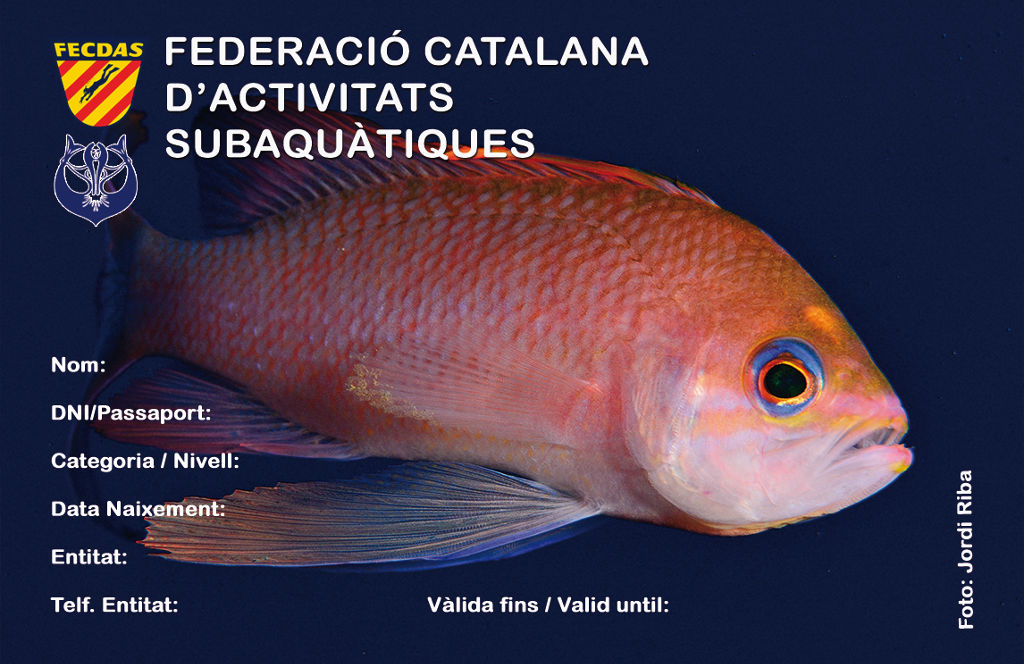
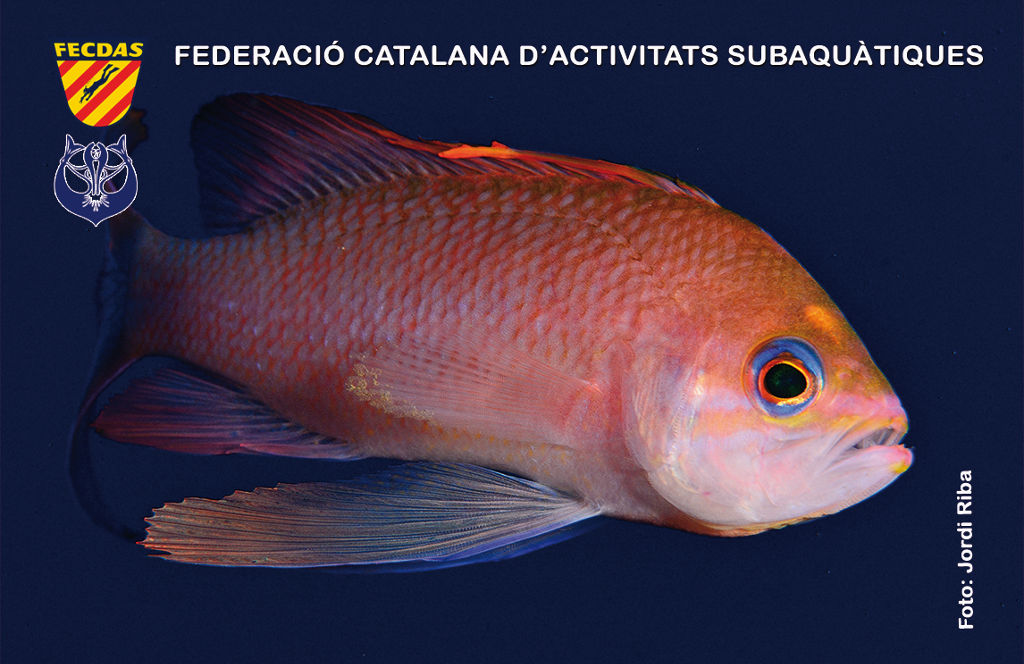
canvi imatge llicència 2018

diff --git a/src/FecdasBundle/Controller/BaseController.php b/src/FecdasBundle/Controller/BaseController.php
@@ -137,6 +137,17 @@ class BaseController extends Controller {
 	const TEMPLATE_ESCOLAR = 'ES';
 	const TEMPLATE_ESCOLAR_SUBMARINISME = 'CS';
 	
+	const IMATGE_ANVERS_GENERAL        = 'images/fonsgeneral_1024x664.jpg';
+	const IMATGE_REVERS_GENERAL        = 'images/federativa_revers_1024x664.jpg';
+	const IMATGE_ANVERS_ESCOLAR        = 'images/fonsanysescolar_1024x664.jpg';
+	const IMATGE_ANVERS_TECNOCAMPUS    = 'images/fonstecnocampus_910x600.jpg';
+	
+	const IMATGE_LOGO_FECDAS       = 'images/fecdaslogopdf.gif';
+	const IMATGE_LOGO_GENE         = 'images/logo-generalitat.jpg';
+	const IMATGE_LOGO_ESPORT       = 'images/esport-logo.jpg';
+	const IMATGE_LOGO_FECDAS_MAIL  = 'images/fecdaslogo-mail.png';
+	const IMATGE_BUTTON            = 'images/white_button.png';
+	
 	// Docs assegurança
 	const POLISSA_BUSSEIG = 'polissa_busseig_2017.pdf';
 	const POLISSA_TECNOCAMPUS = 'polissa_tecnocampus_2017-18.pdf';
@@ -1294,15 +1305,15 @@ class BaseController extends Controller {
 		if($showTemplate == true) {
 			/* LOGOS */		
 			// file, x, y, w, h, format, link alineacio, resize, dpi, palign, mask, mask, border, fit, hidden, fitpage, alt, altimg			
-			$pdf->Image('images/fecdaslogopdf.gif', $x_logos, $y_logos, 
+		    $pdf->Image(BaseController::IMATGE_LOGO_FECDAS, $x_logos, $y_logos, 
 						$w_fedelogo, 0 , 'gif', '', 'LT', true, 320, 
 						'', false, false, array(''),
 						'LT', false, false);
-			$pdf->Image('images/logo-generalitat.jpg', $x_logos+$w_fedelogo+2, $y_logos, 
+			$pdf->Image(BaseController::IMATGE_LOGO_GENE, $x_logos+$w_fedelogo+2, $y_logos, 
 						$w_genelogo, 0 , 'jpeg', '', 'T', true, 320, 
 						'', false, false, array(''),
 						'CT', false, false);
-			$pdf->Image('images/esport-logo.jpg', $x_logos+$w_fedelogo+4.5, $y_logos+$h_genelogo, 
+			$pdf->Image(BaseController::IMATGE_LOGO_ESPORT, $x_logos+$w_fedelogo+4.5, $y_logos+$h_genelogo, 
 						$w_esportlogo, 0 , 'jpeg', '', 'B', true, 320, 
 						'', false, false, array(''),
 						'CB', false, false);
@@ -1723,15 +1734,15 @@ class BaseController extends Controller {
 	   		$pdf->Rotate(90, $l_margin + $rx_corp , $y_corp + $ry_corp);
 			
 			// file, x, y, w, h, format, link,  alineacio, resize, dpi, palign, mask, mask, border, fit, hidden, fitpage, alt, altimg			
-			$pdf->Image('images/fecdaslogopdf.gif', $x_corp, $y_corp, 
+	   		$pdf->Image(BaseController::IMATGE_LOGO_FECDAS, $x_corp, $y_corp, 
 							$w_fedelogo, 0 , 'gif', '', 'LT', true, 320, 
 							'', false, false, array(''),
 							'LT', false, false);
-			$pdf->Image('images/logo-generalitat.jpg', $x_corp+$w_fedelogo+2, $y_corp, 
+			$pdf->Image(BaseController::IMATGE_LOGO_GENE, $x_corp+$w_fedelogo+2, $y_corp, 
 							$w_genelogo, 0 , 'jpeg', '', 'T', true, 320, 
 							'', false, false, array(''),
 							'CT', false, false);
-			$pdf->Image('images/esport-logo.jpg', $x_corp+$w_fedelogo+4.5, $y_corp+$h_genelogo, 
+			$pdf->Image(BaseController::IMATGE_LOGO_ESPORT, $x_corp+$w_fedelogo+4.5, $y_corp+$h_genelogo, 
 							$w_esportlogo, 0 , 'jpeg', '', 'B', true, 320, 
 							'', false, false, array(''),
 							'CB', false, false);
@@ -2032,9 +2043,9 @@ class BaseController extends Controller {
 		$yCat =	52-$offset;		
 		$yNai =	58-$offset;
 		if ($template == BaseController::TEMPLATE_GENERAL) $yCad = 71-$offset;		
-		else $yCad = (count($links) <= 3 ? 72-$offset: $yNai);
-		$yClu =	64-$offset;		
-		$yTlf =	64-$offset;	
+		else $yCad = (count($links) <= 3 ? 70-$offset: $yNai-0.2);
+		$yClu =	65-$offset;		
+		$yTlf =	$yClu-0.2;	
 
 		// Links docs
 		$x = $x_titols + 5;
@@ -2064,7 +2075,7 @@ class BaseController extends Controller {
 
 		$pdf->AddPage('L', $pageLayout);
 		
-		$srcImatge = ($template == BaseController::TEMPLATE_GENERAL?'images/fonsgeneral_1024x664.jpg':'images/fonsanysescolar_1024x664.jpg');
+		$srcImatge = ($template == BaseController::TEMPLATE_GENERAL?BaseController::IMATGE_ANVERS_GENERAL:BaseController::IMATGE_ANVERS_ESCOLAR);
 		
 		$pdf->Image($srcImatge, 0, 0, $width, $height , 'jpg', '', '', false, 320, 
 						'', false, false, 1, false, false, false);
@@ -2086,7 +2097,8 @@ class BaseController extends Controller {
 //		$pdf->SetFillColor(224,224,224);
 //		$pdf->SetAlpha(0.7);
 	
-		$pdf->setTextShadow(array('enabled' => true, 'depth_w' => 0.5, 'depth_h' => 0.5, 'color' => array(53,153,179), 'opacity' => 0.75, 'blend_mode' => 'Normal'));
+		if ($template == BaseController::TEMPLATE_GENERAL) $pdf->setTextShadow(array('enabled' => true, 'depth_w' => 0.2, 'depth_h' => 0.2, 'color' => array(39,65,140), 'opacity' => 0.75, 'blend_mode' => 'Normal'));
+		else $pdf->setTextShadow(array('enabled' => true, 'depth_w' => 0.5, 'depth_h' => 0.5, 'color' => array(53,153,179), 'opacity' => 0.75, 'blend_mode' => 'Normal'));
 		if ($template == BaseController::TEMPLATE_GENERAL) {
 			$pdf->SetFont('dejavusans', 'B', 14, '', true);
 		} else {
@@ -2100,13 +2112,21 @@ class BaseController extends Controller {
 		$pdf->SetFont('dejavusans', 'B', 11);
 		$pdf->SetTextColor(255, 255, 255);
 
-		$pdf->setTextShadow(array('enabled' => true, 'depth_w' => 0.3, 'depth_h' => 0.3, 'color' => array(53,153,179), 'opacity' => 0.6, 'blend_mode' => 'Normal'));		
+		if ($template == BaseController::TEMPLATE_GENERAL) $pdf->setTextShadow(array('enabled' => true, 'depth_w' => 0.2, 'depth_h' => 0.2, 'color' => array(39,65,140), 'opacity' => 0.6, 'blend_mode' => 'Normal'));		
+		else $pdf->setTextShadow(array('enabled' => true, 'depth_w' => 0.3, 'depth_h' => 0.3, 'color' => array(53,153,179), 'opacity' => 0.6, 'blend_mode' => 'Normal'));
 		
 		$pdf->writeHTMLCell(0, 0, $x_titols, $yNom, '<span style="font-size: small;">Nom: </span>'.$persona->getNomCognoms(), 0, 0, false, true, 'L', true);
 		$pdf->writeHTMLCell(0, 0, $x_titols, $yDni, '<span style="font-size: small;">DNI/Passaport: </span>'.$persona->getDni(), 0, 0, false, true, 'L', true);
 		$pdf->writeHTMLCell(0, 0, $x_titols, $yCat, '<span style="font-size: small;">Categoria/Nivell: </span>'.$llicencia->getCategoria()->getCategoria(), 0, 0, false, true, 'L', true);
 		$pdf->writeHTMLCell(0, 0, $x_titols, $yNai, '<span style="font-size: small;">Data Naixement: </span>'.$persona->getDatanaixement()->format('d/m/Y'), 0, 0, false, true, 'L', true);
-		$pdf->writeHTMLCell(0, 0, $x_titols, $yClu, '<span style="font-size: small;">Entitat: </span>'.$club->getNom(), 0, 0, false, true, 'L', true);
+		$pdf->writeHTMLCell(0, 0, $x_titols, $yClu, '<span style="font-size: small;">Entitat: </span>', 0, 0, false, true, 'L', true);
+		
+		/* Ajustar nom del club */
+		$pdf->SetY($yClu-0.5);
+		$pdf->SetX(PDF_MARGIN_LEFT+4);
+		$pdf->Cell(78, 0, $club->getNom(), 0, 0, 'L', false, '', 1);
+		
+		if ($template == BaseController::TEMPLATE_GENERAL) $pdf->SetRightMargin(PDF_MARGIN_RIGHT);
 		$pdf->writeHTMLCell(0, 0, $x_titols, $yCad, '<span style="font-size: small;">Vàlida fins/Valid until: </span>'. $datacaduca->format('d/m/Y'), 0, 0, false, true, 'R', true);
 		
 		$pdf->SetFont('dejavusans', 'B', 10);
@@ -2122,7 +2142,9 @@ class BaseController extends Controller {
 		$margins = $pdf->getMargins();
 		$width = $pdf->getPageWidth() - $margins['left'] - $margins['right'];
 		
-		$pdf->SetTextColor(53,153,179);
+		
+		if ($template == BaseController::TEMPLATE_GENERAL) $pdf->SetTextColor(39,65,140);
+		else  $pdf->SetTextColor(53,153,179);
 		$pdf->SetFont('helvetica', 'B', 10, '', true);
 
 		$margins = $pdf->getMargins();
@@ -2131,7 +2153,7 @@ class BaseController extends Controller {
 
 
 		for ($i=0; $i < count($links); $i++) {
-			$pdf->Image('images/white_button.png', $x, $y, $wLink, $hLink , 'png', $links[$i]['link'], 
+		    $pdf->Image(BaseController::IMATGE_BUTTON, $x, $y, $wLink, $hLink , 'png', $links[$i]['link'], 
 					'', true, 320, '', false, false, 0, false, false, false);
 			//$pdf->setPageMark(); 
 			$pdf->MultiCell($wLink, $hLink, $links[$i]['text'], 0, 'C', 0, 0, $x, $y, true, 0, false, true, $hLink, 'M', true);
@@ -2226,7 +2248,7 @@ class BaseController extends Controller {
 
 		$pdf->AddPage('L', $pageLayout);
 		
-		$pdf->Image('images/fonstecnocampus_910x600.jpg', 0, 0, 
+		$pdf->Image(BaseController::IMATGE_ANVERS_TECNOCAMPUS, 0, 0, 
 						$width, $height , 'jpg', '', '', false, 320, 
 						'', false, false, 1, false, false, false);
 		
@@ -2249,6 +2271,7 @@ class BaseController extends Controller {
 
 		$pdf->writeHTMLCell(0, 0, $x_titols, $yNom, '<span style="font-size: small;">Nom: </span>'.$persona->getNomCognoms(), 0, 0, false, true, 'L', true);
 		$pdf->writeHTMLCell(0, 0, $x_titols, $yDni, '<span style="font-size: small;">DNI/Passaport: </span>'.$persona->getDni(), 0, 0, false, true, 'L', true);
+		
 		$pdf->writeHTMLCell(0, 0, $x_titols, $yCad, '<span style="font-size: small;">Vàlida fins/Valid until: </span>'. $datacaduca->format('d/m/Y'), 0, 0, false, true, 'R', true);
 		
 		//$pdf->setFontSpacing(0.5);
@@ -2263,7 +2286,7 @@ class BaseController extends Controller {
 
 
 		for ($i=0; $i < count($links); $i++) {
-			$pdf->Image('images/white_button.png', $x, $y, $wLink, $hLink , 'png', $links[$i]['link'], 
+		    $pdf->Image(BaseController::IMATGE_BUTTON, $x, $y, $wLink, $hLink , 'png', $links[$i]['link'], 
 					'', true, 320, '', false, false, 0, false, false, false);
 			//$pdf->setPageMark(); 
 			$pdf->MultiCell($wLink, $hLink, $links[$i]['text'], 0, 'C', 0, 0, $x, $y, true, 0, false, true, $hLink, 'M', true);
@@ -3870,7 +3893,7 @@ class BaseController extends Controller {
 			$innerbody .= "<p>Atentament<br/>";
 			$innerbody .= "FECDAS, ".$this->getCurrentDate()->format("d/m/Y")."</p><br/>";
 		}
-		$logosrc = $message->embed(\Swift_Image::fromPath('images/fecdaslogo-mail.png'));
+		$logosrc = $message->embed(\Swift_Image::fromPath(BaseController::IMATGE_LOGO_FECDAS_MAIL));
 		
 		/*$footer .= "<div style='float:left;padding-right:20px'><img src=".$logosrc." alt='FECDAS' /></div>";
 		$footer .= "<div style='float:left;text-align:right'>";

diff --git a/src/FecdasBundle/Controller/PDFController.php b/src/FecdasBundle/Controller/PDFController.php
@@ -582,18 +582,12 @@ class PDFController extends BaseController {
 				// Border dashed
 				$pdf->SetLineStyle(array('width' => 0.3, 'cap' => 'butt', 'join' => 'miter', 'dash' => 4, 'color' => array(0, 0, 0)));
 				//$pdf->writeHTMLCell($width + 4, 2*($height + 2), $x - 2, $y - 2, '', 1, 0, 0, true, 'L', true);
-
 				
-				
-				
-				/*$pdf->Image('images/federativa-cara.jpg', $x, $y, 
-						$width, $height , 'jpg', '', '', false, 320, 
-						'', false, false, 1, false, false, false);*/
-				$pdf->Image('images/fonsgeneral_1024x664.jpg', $x, $y, 
+				$pdf->Image(BaseController::IMATGE_ANVERS_GENERAL, $x, $y, 
 						$width, $height , 'jpg', '', '', false, 320, 
 						'', false, false, 1, false, false, false);
 				
-				$pdf->Image('images/federativa_revers_1024x664.jpg', $x, $y + $height,
+						$pdf->Image(BaseController::IMATGE_REVERS_GENERAL, $x, $y + $height,
 						$width, $height , 'jpg', '', '', false, 320,
 						'', false, false, 1, false, false, false);
 				
@@ -606,7 +600,8 @@ class PDFController extends BaseController {
 				
 				$x = $x_ini + 47;
 				$y = $y_ini + 35;
-				$pdf->writeHTMLCell(0, 0, $x, $y, "Nom: " . $persona->getNom() . " " . $persona->getCognoms(), 0, 0, 0, true, 'L', true);
+			
+				$pdf->writeHTMLCell(0, 0, $x, $y, "Nom: " . $persona->getNom()." ".$persona->getCognoms(), 0, 0, 0, true, 'L', true);
 				
 				$y += 4;
 				$pdf->writeHTMLCell(0, 0, $x, $y, "DNI/Passaport: " . $persona->getDni(), 0, 0, 0, true, 'L', true);
@@ -656,7 +651,7 @@ class PDFController extends BaseController {
 				
 				if ($datacaduca > $parte->getDatacaducitat()) $datacaduca = $parte->getDatacaducitat();
 				
-				$x += 32;
+				$x += 28;
 				$pdf->writeHTMLCell(0, 0, $x, $y + 4, "Carnet provisional vàlid fins al " . $datacaduca->format('d/m/Y'), 0, 0, 0, true, 'L', true);
 				/*$x += 41;
 				$pdf->writeHTMLCell(0, 0, $x, $y, $datacaduca->format('d/m/Y'), 0, 0, 0, true, 'L', true);*/
@@ -821,10 +816,6 @@ class PDFController extends BaseController {
 		//			$w=0, $h=0, $type='', $link='', $align='', $resize=false, $dpi=300, 
 		// 			$palign='', $ismask=false, $imgmask=false, $border=0, $fitbox=false, 
 		//			$hidden=false, $fitonpage=false, $alt=false, $altimgs=array())
-		/*$pdf->Image('images/background_carnet.jpg', 0, 0, 
-							$width, $height, 'jpg', '', 'LT', true, 150, 
-							'', false, false, array(), true,
-							false, false, false, array());*/
 		
 		foreach ($carnetsArray as $dades) {
 			// Add a page
